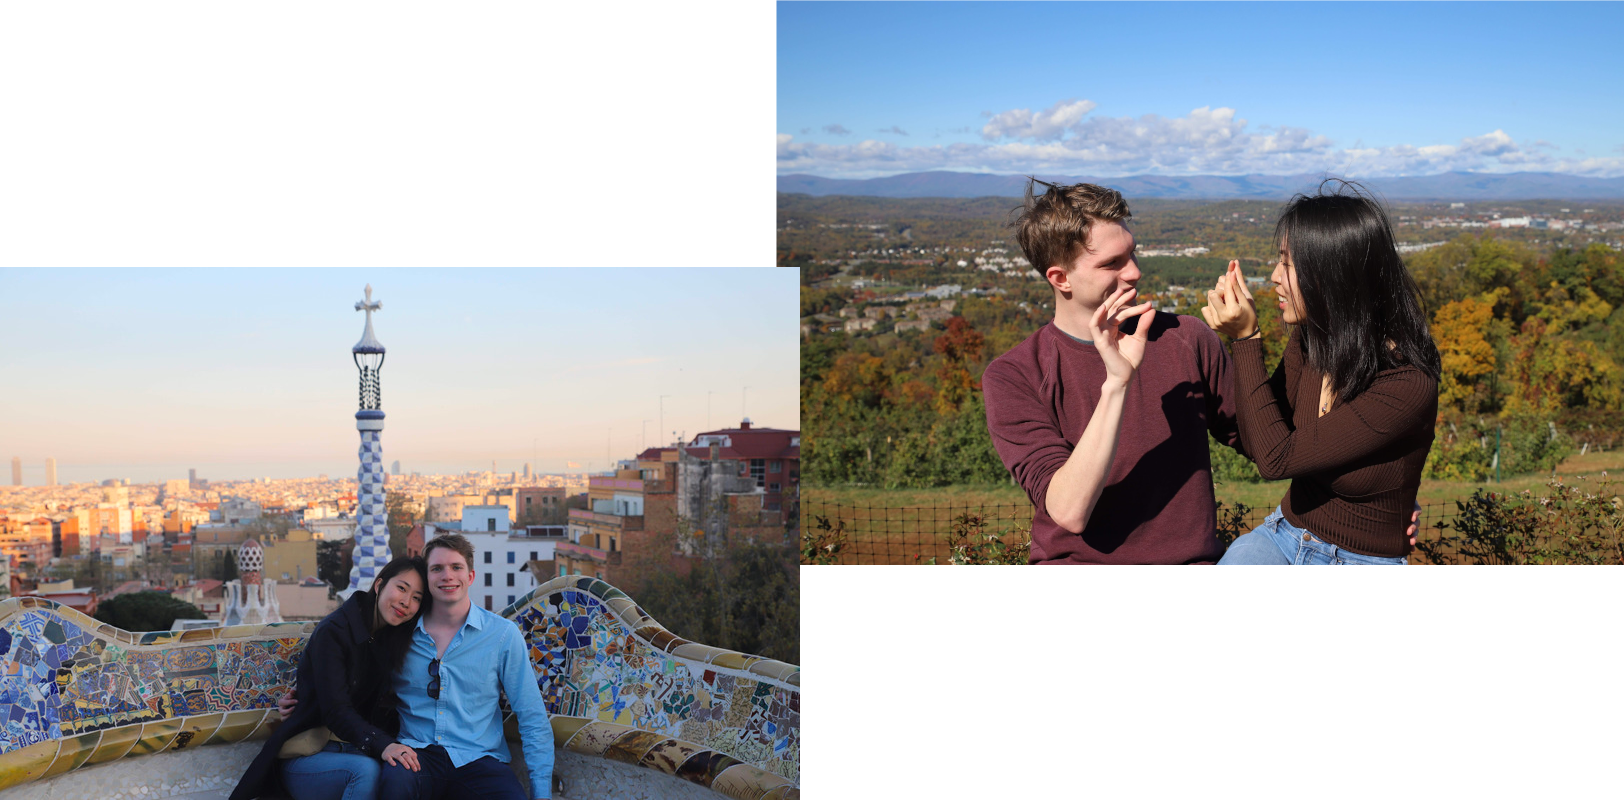
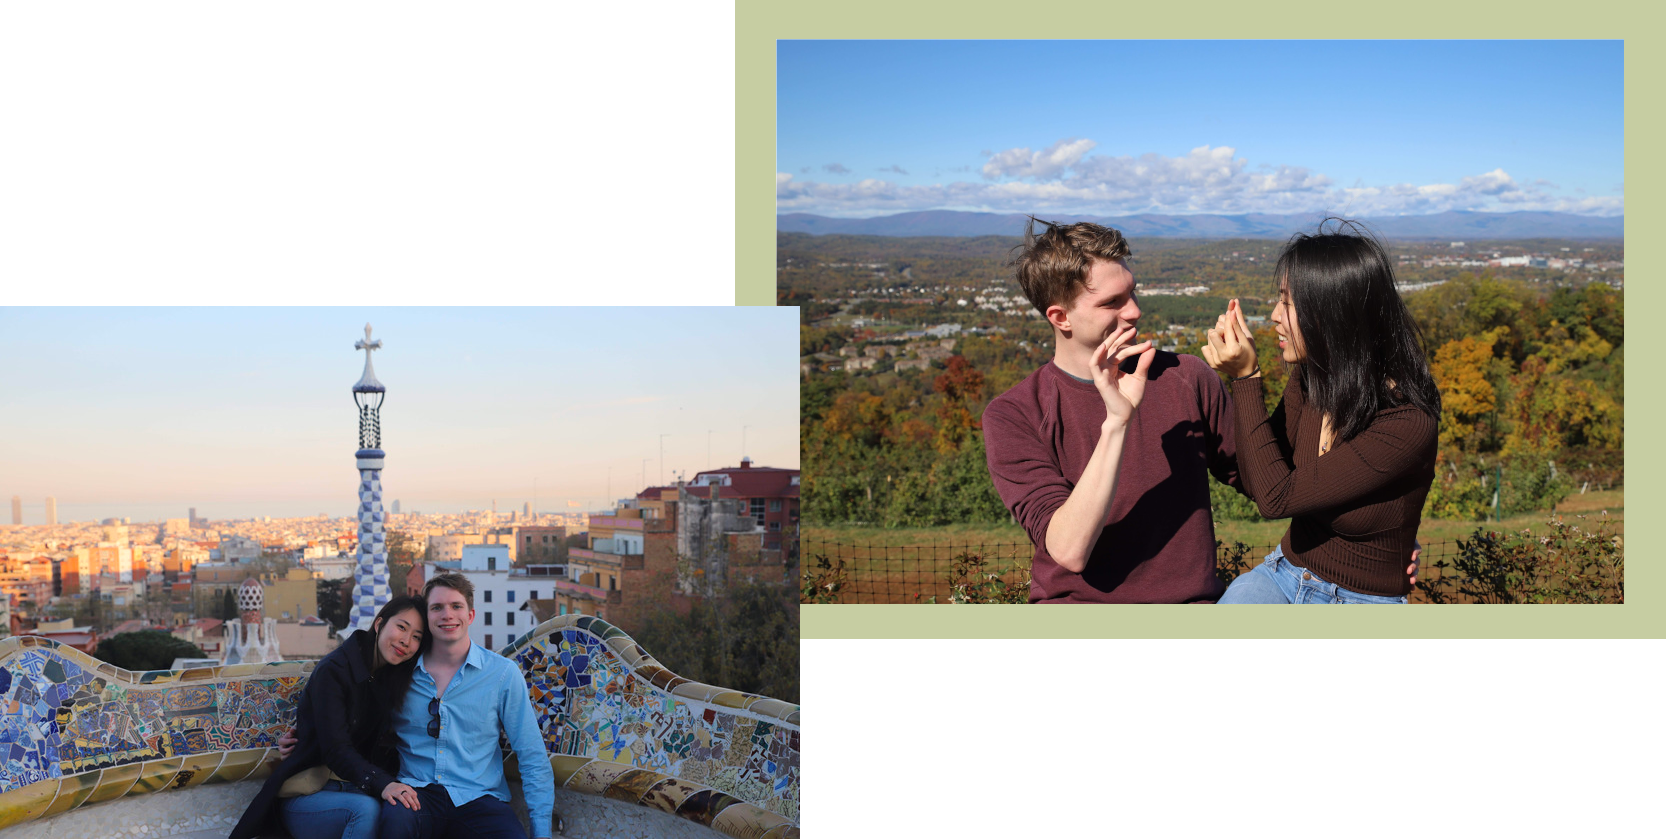
feat: Finish our story; clean up venue page

diff --git a/src/components/Venue.tsx b/src/components/Venue.tsx
@@ -1,39 +1,23 @@
 import React from "react";
 import TopBar from "./TopBar";
-import { Box, Stack, ThemeProvider, createTheme } from "@mui/system";
-import { Divider, Fade, Typography } from "@mui/material";
-import BeVietnam from '../fonts/BeVietnamPro-Regular.ttf';
+import { Box, Stack } from "@mui/system";
+import { Divider, Fade, Typography, ThemeProvider, createTheme } from "@mui/material";
+import { Fonts } from "../utils/Fonts";
 
 export default function Venue() {
-  let bvtheme = createTheme({
-    typography: {
-      fontFamily: 'BeVietnam',
-      button: {
-        textTransform: 'none'
-      }
-    },
-    components: {
-      MuiCssBaseline: {
-        styleOverrides: `
-          @font-face {
-            font-family: 'BeVietnam';
-            font-style: normal;
-            font-display: swap;
-            font-weight: 400;
-            src: local('BeVietnam'), local('BeVietnam-Regular'), url(${BeVietnam}) format('truetype');
-            unicodeRange: U+0000-00FF, U+0131, U+0152-0153, U+02BB-02BC, U+02C6, U+02DA, U+02DC, U+2000-206F, U+2074, U+20AC, U+2122, U+2191, U+2193, U+2212, U+2215, U+FEFF;
-          }
-        `,
-      },
-    },
-  });
-
   const contentTheme = createTheme({
     typography: {
       fontFamily: [
         'EB Garamond',
         'serif',
       ].join(','),
+    },
+  });
+
+  const theme = createTheme({
+    typography: {
+      fontFamily: Fonts.Cormorant,
+      fontSize: 35
     },
   });
   
@@ -48,9 +32,9 @@ export default function Venue() {
           position: 'relative',
           width: '80vw'
         }}>
-          <ThemeProvider theme={bvtheme}>
-            <Typography variant="h2" sx={{ fontFamily: 'BeVietnam', fontSize: '60px', fontWeight: '300', marginTop: '100px', fontStyle: 'italic' }}>
-              The Market at Grelen
+          <ThemeProvider theme={theme}>
+            <Typography sx={{ marginTop: '75px', color: '#05200a', zIndex: 1 }}>
+              THE MARKET AT GRELEN
             </Typography>
           </ThemeProvider>
           <Box
@@ -66,14 +50,7 @@ export default function Venue() {
           <Divider flexItem sx={{ marginTop: '50px', marginBottom: '50px' }}/>
           <ThemeProvider theme={contentTheme}>
             <Typography sx={{ fontSize: '1.25rem' }}>
-              David and Amanda met as most ~young~ couples do, a dating app (bonus points if you know which one!) 
-              <br /><br />
-              Their first date was in a small Korean restaurant in Georgetown, DC, filled with laughter and too much spicy pork bulgogi. 
-              Despite starting off long distance, their love continued to grow, fostered by Facetime calls and Amtrak trips. 
-              <br /><br />
-              After four years together, David proposed to Amanda amongst volcanic rock and clouds, marking the beginnings of a new chapter. 
-              <br /><br />
-              We are so excited to have you with us as we celebrate the start of our next adventure together!
+              Ceremony and reception will be at <a href='https://www.themarketatgrelen.com/'>The Market at Grelen</a>, located in Somerset VA.
             </Typography>
           </ThemeProvider>
           <Divider flexItem sx={{ marginTop: '50px', marginBottom: '50px' }}/>

diff --git a/src/components/OurStory.tsx b/src/components/OurStory.tsx
@@ -30,7 +30,7 @@ export default function OurStory() {
           marginLeft: 'auto',
           marginRight: 'auto',
           position: 'relative',
-          width: '80vw',
+          width: { xs: '80vw', lg: '60wv' },
           zIndex: 1
         }}>
           <Box
@@ -104,14 +104,63 @@ export default function OurStory() {
                 alt="Pics of David and Amanda."
                 src="/assets/overlapping_1.png"
               />
+              <Box
+                component="img"
+                sx={{
+                  position: 'absolute',
+                  left: { xs: '-50%', lg: '-30%' },
+                  marginTop: { xs: '-125px', lg: 0 },
+                  maxWidth: { xs: '85%', sm: '30%' },
+                  opacity: '0.3',
+                  transform: 'rotate(45deg)'
+                }}
+                alt="Florals."
+                src="/assets/f4.png"
+              />
               <br />
               Their first date was in a small Korean restaurant in Georgetown, DC, filled with laughter and too much spicy pork bulgogi. 
               Despite starting off long distance, their love continued to grow, fostered by Facetime calls and Amtrak trips. 
+              <Box
+                component="img"
+                sx={{
+                  position: 'absolute',
+                  right: { xs: '-50%', lg: '-30%' },
+                  marginTop: { xs: '-300px', lg: 0 },
+                  maxWidth: { xs: '70%', sm: '60%', lg: '30%' },
+                  opacity: '0.3',
+                  transform: 'rotate(-135deg)'
+                }}
+                alt="Florals."
+                src="/assets/f5.png"
+              />
               <br /><br />
               After four years together, David proposed to Amanda in Maui, marking the beginning of a new chapter. 
               <br /><br />
-              
+              <Box
+                component="img"
+                sx={{
+                  maxWidth: { xs: '170%', md: '100%', lg: '70%' },
+                  marginLeft: { xs: '-20%', md: '0', lg: '15%' },
+                  marginBottom: '10px',
+                  zIndex: 3
+                }}
+                alt="Pics of David and Amanda."
+                src="/assets/overlapping_2.png"
+              />
+              <br />
               We are so excited to have you with us as we celebrate the start of our next adventure together!
+              <Box
+                component="img"
+                sx={{
+                  position: 'absolute',
+                  left: { xs: '-20%', lg: '-10%' },
+                  marginTop: { xs: '-125px', lg: '-300px' },
+                  maxWidth: { xs: '85%', sm: '70%', lg: '30%' },
+                  opacity: '0.3'
+                }}
+                alt="Florals."
+                src="/assets/f6.png"
+              />
             </Typography>
           </ThemeProvider>
           <Divider flexItem sx={{ marginTop: '50px', marginBottom: '50px' }}/>
